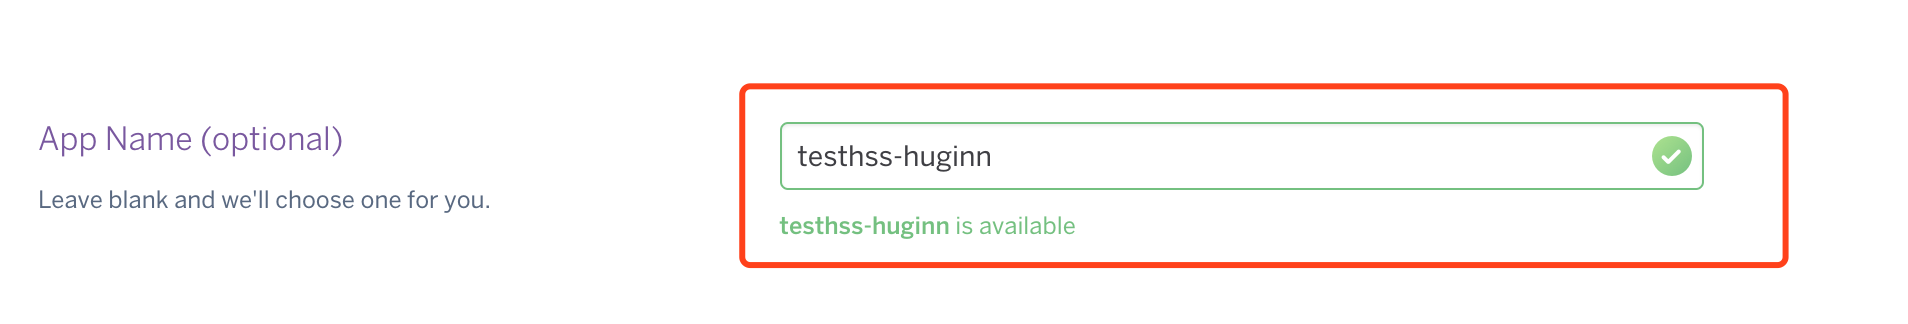
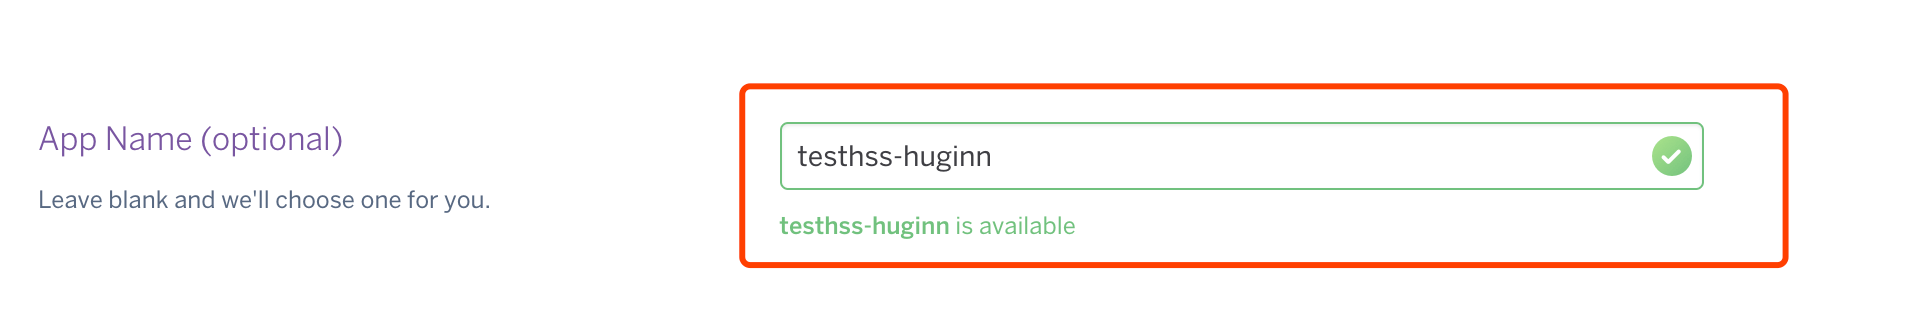
修改图片大小

Changed region(s): [[0.3711, 0.8025, 0.9586, 0.8333], [0.3711, 0.2469, 0.9586, 0.2778]]

diff --git a/_posts/2017-5-14-heroku-huginn.md b/_posts/2017-5-14-heroku-huginn.md
@@ -5,34 +5,27 @@ date:   2017-5-14
 categories: huginn
 ---
 
-
 ## 需要的东西
 
-1. git （用来拉仓库）
-2. Heroku Toolbelt （用来部署）
-3. ruby 环境 （用来配置）
+1. [Codeanywhere](https://codeanywhere.com/) 账号注册（用于 Heroku 环境配置）
+2. [Heroku](http://herokuapp.com/) 账号注册
 
-## 准备工作
+## 部分说明
 
-注册一个 Heroku 的账号，登陆上去。
-
-配置好你的 Heroku Toolbelt（参考 Heroku 官方的说明）。
-
-以及把 gem 的原换了。
-
-由于 Huginn 是一个 ruby 写的应用，所以需要用 gem 把它需要的三方库安装起来，但是 gem 本身是很卡的。所以要把国外的源换到中国，参考 Ruby China 的 [RubyGems 镜像](https://gems.ruby-china.org/)。从 `gem sources` 开始做。
+1. 由于 Huginn 是基于 Ruby 的，所以需要配置 Ruby 的环境。我们这里使用 Codeanywhere，就省去了配置 Ruby 环境。
+2. [Cloud9](https://c9.io/) 是一个云端的 IDE，配置好了安装 Huginn 的所有环境，但是注册需要信用卡。（如果你有信用卡我推荐你使用这个。）我们这里使用 [Codeanywhere](https://codeanywhere.com/)，二者没有特别大的区别，Codeanywhere 比 Cloud9 少了 Heroku 的环境，我会详细说明如何在 Codeanywhere 上配置 Heroku 的环境。
 
 ## 部署步骤
 
-1.登陆 Huginn Github 主页的 [Deployment 部分](https://github.com/huginn/huginn#deployment)，找到 Heroku 的按钮。然后点击，就会跳转到你的 Heroku 了。
+1. 登陆 Huginn Github 主页的 [Deployment 部分](https://github.com/huginn/huginn#deployment)，找到 Heroku 的按钮。然后点击，就会跳转到你的 Heroku 了。
 
 ![](http://walkginkgo.com/images/huginn/heroku-1.png)
 
-2.点完按钮之后会跳转到你的 Heroku 界面。去起个名字。
+2. 点完按钮之后会跳转到你的 Heroku 界面。去起个名字。
 
 ![](http://walkginkgo.com/images/huginn/heroku-2.png)
 
-3.起晚名字什么都不点，直接拉到最后点 Deploy 的按钮。
+3. 起晚名字什么都不点，直接拉到最后点 Deploy 的按钮。
 
 ![](http://walkginkgo.com/images/huginn/heroku-3.png)
 
@@ -44,19 +37,47 @@ categories: huginn
 
 ![](http://walkginkgo.com/images/huginn/heroku-5.png)
 
-4.这样就进入到网页了。这里 Huginn 很人性化的把步骤贴出来了。由于我们用的是自动安装，所以没有创建管理员用户，也有一些东西需要配置。（可以看到已经可以访问域名了）
+4. 这样就进入到网页了。这里 Huginn 很人性化的把步骤贴出来了。由于我们用的是自动安装，所以没有创建管理员用户，也有一些东西需要配置。（可以看到已经可以访问域名了）
 
 ![](http://walkginkgo.com/images/huginn/heroku-6.png)
 
-这里首先需要在命令行登陆你的 heroku（对不用第一步看文档了，直接做），就是在命令行输入 `heroku login`。
+现在我们对照着 Huginn 的说明来做。
 
-剩下的就对着白色的复制粘贴命令做可以了。到最后一步 `bin/setup_heroku` 的时候会让你输入一些 Yes or no，或者是邮箱什么的，我就不详细说了。实在搞不定就在群里问。一个一个写得截图太麻烦了，容我偷个懒。
+5. 登陆 Codeanywhere，点击右上角的 Editor。
 
-里面有一步会设置或者直接给你一个邀请码，还有设置管理员用户。还有登陆的管理员账号和密码。记得保存好这些。
+
+
+会进入一个选择界面，如我截图。
+
+第一次的话点完 Create 会让你验证邮箱，验证完邮箱对着上图再做一遍就可以了。
+
+6. Codeanywhere 已经配置好了 Linux 和 Ruby 的环境，我们点击第一个进入命令行。
+
+如果你想省事，我写了一个脚本。这样你只需要输入很少的命令就可以了。
+
+上 [huginn.sh](https://github.com/tesths/tesths.github.com/blob/master/images/huginn/huginn.sh)，复制到 Codeanywhere 的文件编辑器里。
+
+然后在你的 Heroku 界面找到下图的地方。
+
+替换我写的脚本的以下地方。
+
+然后执行脚本。
+
+执行完毕之后。
+
+先进入 `cd code-huginn/`。
+
+在命令行登陆你的 heroku ，就是在命令行输入 `heroku login`。
+
+之后执行 `heroku git:remote -a code-huginn`。
+
+最后执行 `bin/setup_heroku`。
+
+剩下的就是开始自动配置了。
 
 ## 几点说明
 
-1. Heroku 部署很简单，如果有问题，那基本是 gem 的问题，看看报错信息，搞不定就上群里来交流一下。
+1. Heroku 部署很简单，利用我写的脚本应该很快。
 2. Heroku 有时间限制，有时候网站会挂，官方推荐可以使用 uptimerobot 来持续网站运行。参考官方文档。
 
 
